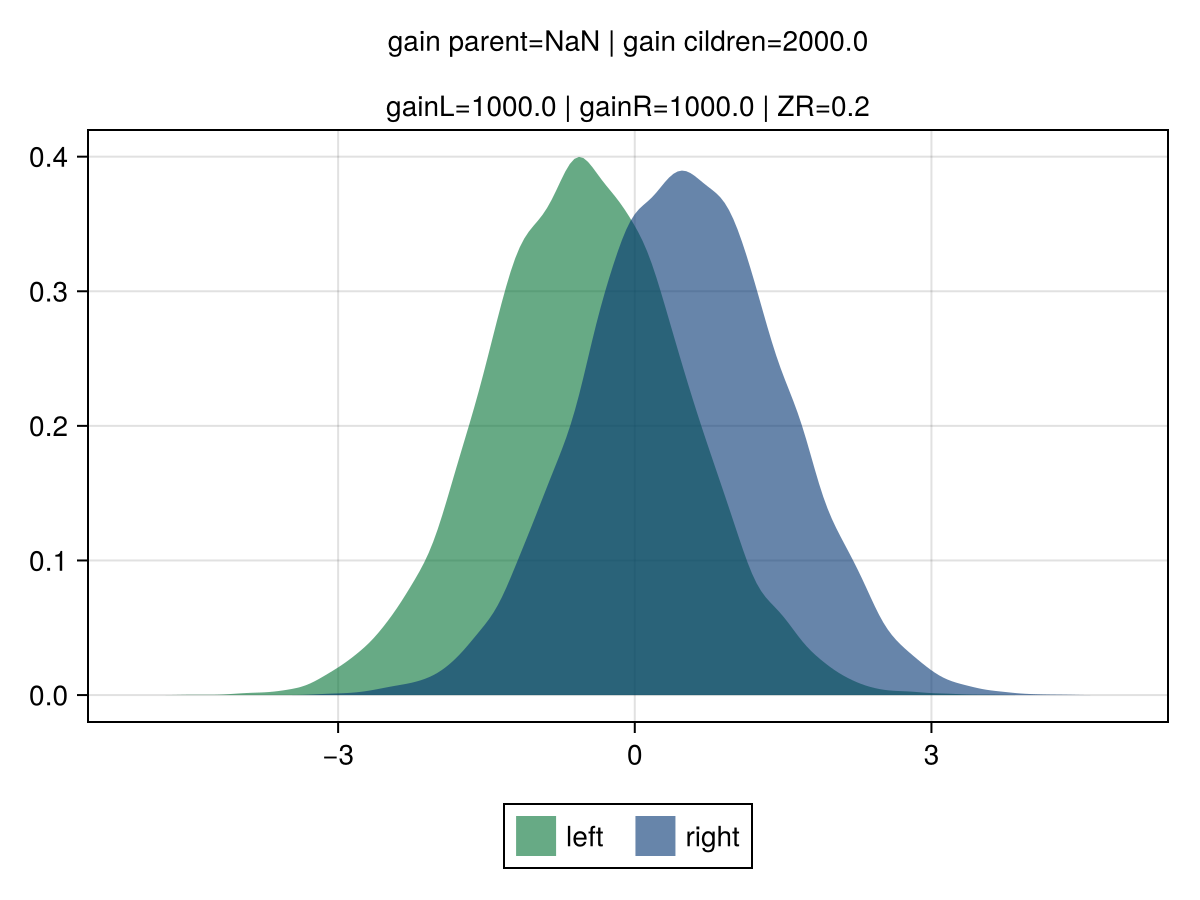
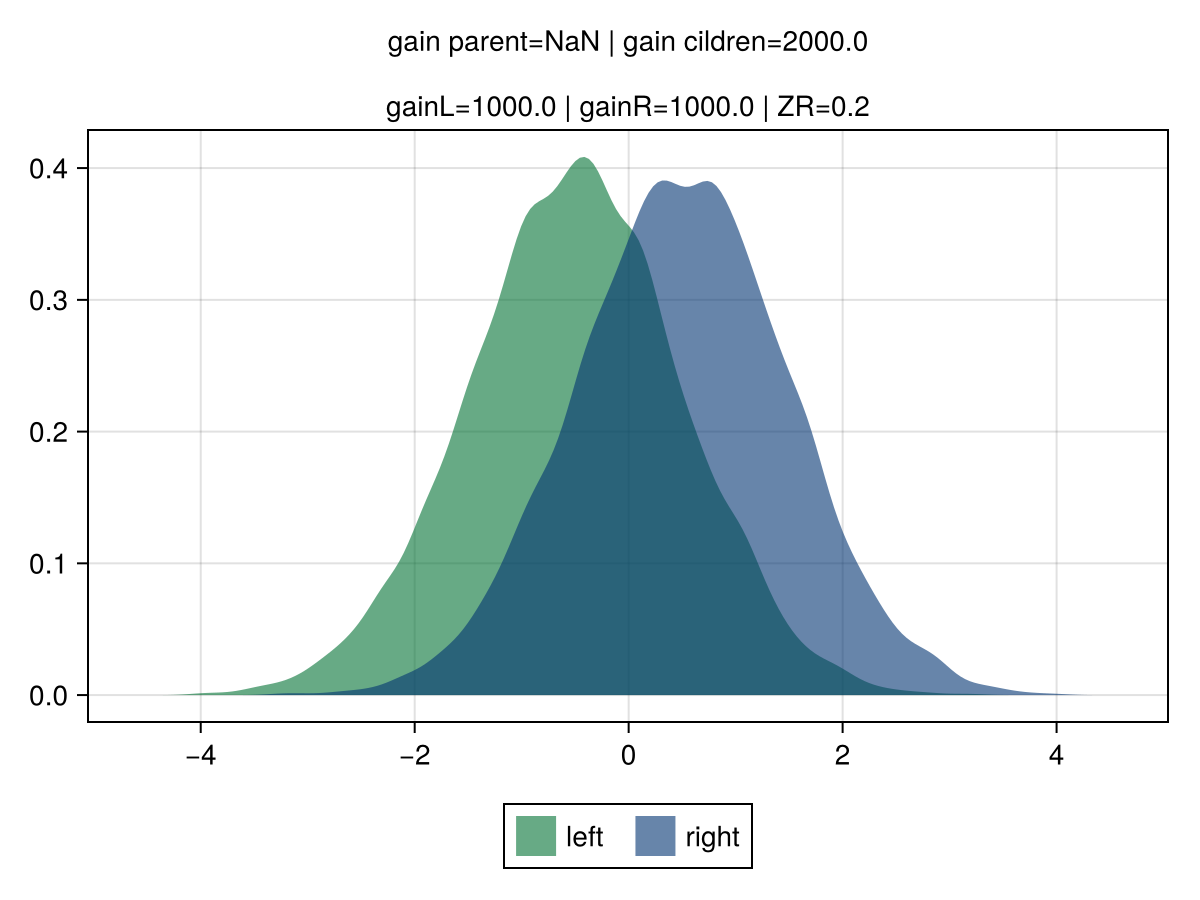
up

diff --git a/blog/cred/README.md b/blog/cred/README.md
@@ -118,7 +118,7 @@ end
 get_cred_figure (generic function with 1 method)
 ````
 
-## Credibility-based gains
+## MSE gains
 
 ````julia
 loss = :mse
@@ -132,16 +132,25 @@ save(joinpath(@__DIR__, "assets", "dist-mse-2.png"), f)
 
 data = get_data(; loss, nobs=10000, spread=1.0, sd=1.0, lambda=0.0)
 f = get_dist_figure(data)
-save(joinpath(@__DIR__, "assets", "dist-mse-3.png"), f)
-````
+save(joinpath(@__DIR__, "assets", "dist-mse-3.png"), f);
 
-````
-CairoMakie.Screen{IMAGE}
+loss = :mse
+data = get_data(; loss, nobs=10, spread=1.0, sd=0.1, lambda=0.0)
+f = get_dist_figure(data)
+save(joinpath(@__DIR__, "assets", "dist-mse-1B.png"), f)
 
+data = get_data(; loss, nobs=100, spread=1.0, sd=0.1, lambda=0.0)
+f = get_dist_figure(data)
+save(joinpath(@__DIR__, "assets", "dist-mse-2B.png"), f)
+
+data = get_data(; loss, nobs=10000, spread=1.0, sd=0.1, lambda=0.0)
+f = get_dist_figure(data)
+save(joinpath(@__DIR__, "assets", "dist-mse-3B.png"), f);
 ````
 
 | ![](assets/dist-mse-1.png) | ![](assets/dist-mse-2.png) | ![](assets/dist-mse-3.png) |
 |:----------------------:|:----------------------:|:----------------------:|
+| ![](assets/dist-mse-1B.png) | ![](assets/dist-mse-2B.png) | ![](assets/dist-mse-3B.png) |
 
 ## Credibility-based gains
 
@@ -157,12 +166,7 @@ save(joinpath(@__DIR__, "assets", "dist-cred-2.png"), f)
 
 data = get_data(; loss, nobs=10000, spread=1.0, sd=1.0, lambda=0.0)
 f = get_dist_figure(data)
-save(joinpath(@__DIR__, "assets", "dist-cred-3.png"), f)
-````
-
-````
-CairoMakie.Screen{IMAGE}
-
+save(joinpath(@__DIR__, "assets", "dist-cred-3.png"), f);
 ````
 
 | ![](assets/dist-cred-1.png) | ![](assets/dist-cred-2.png) | ![](assets/dist-cred-3.png) |
@@ -184,7 +188,7 @@ get_cred_figure(; loss=:credV2B, sd, nobs_list, spread_list)
 
 f1 = get_cred_figure(; loss=:credV1A, sd, nobs_list, spread_list)
 f2 = get_cred_figure(; loss=:credV2A, sd, nobs_list, spread_list)
-save(joinpath(@__DIR__, "test.png"), f1)
+save(joinpath(@__DIR__, "assets", "heatmap-cred-1.png"), f1);
 f1
 ````
 ![](README-12.png)
